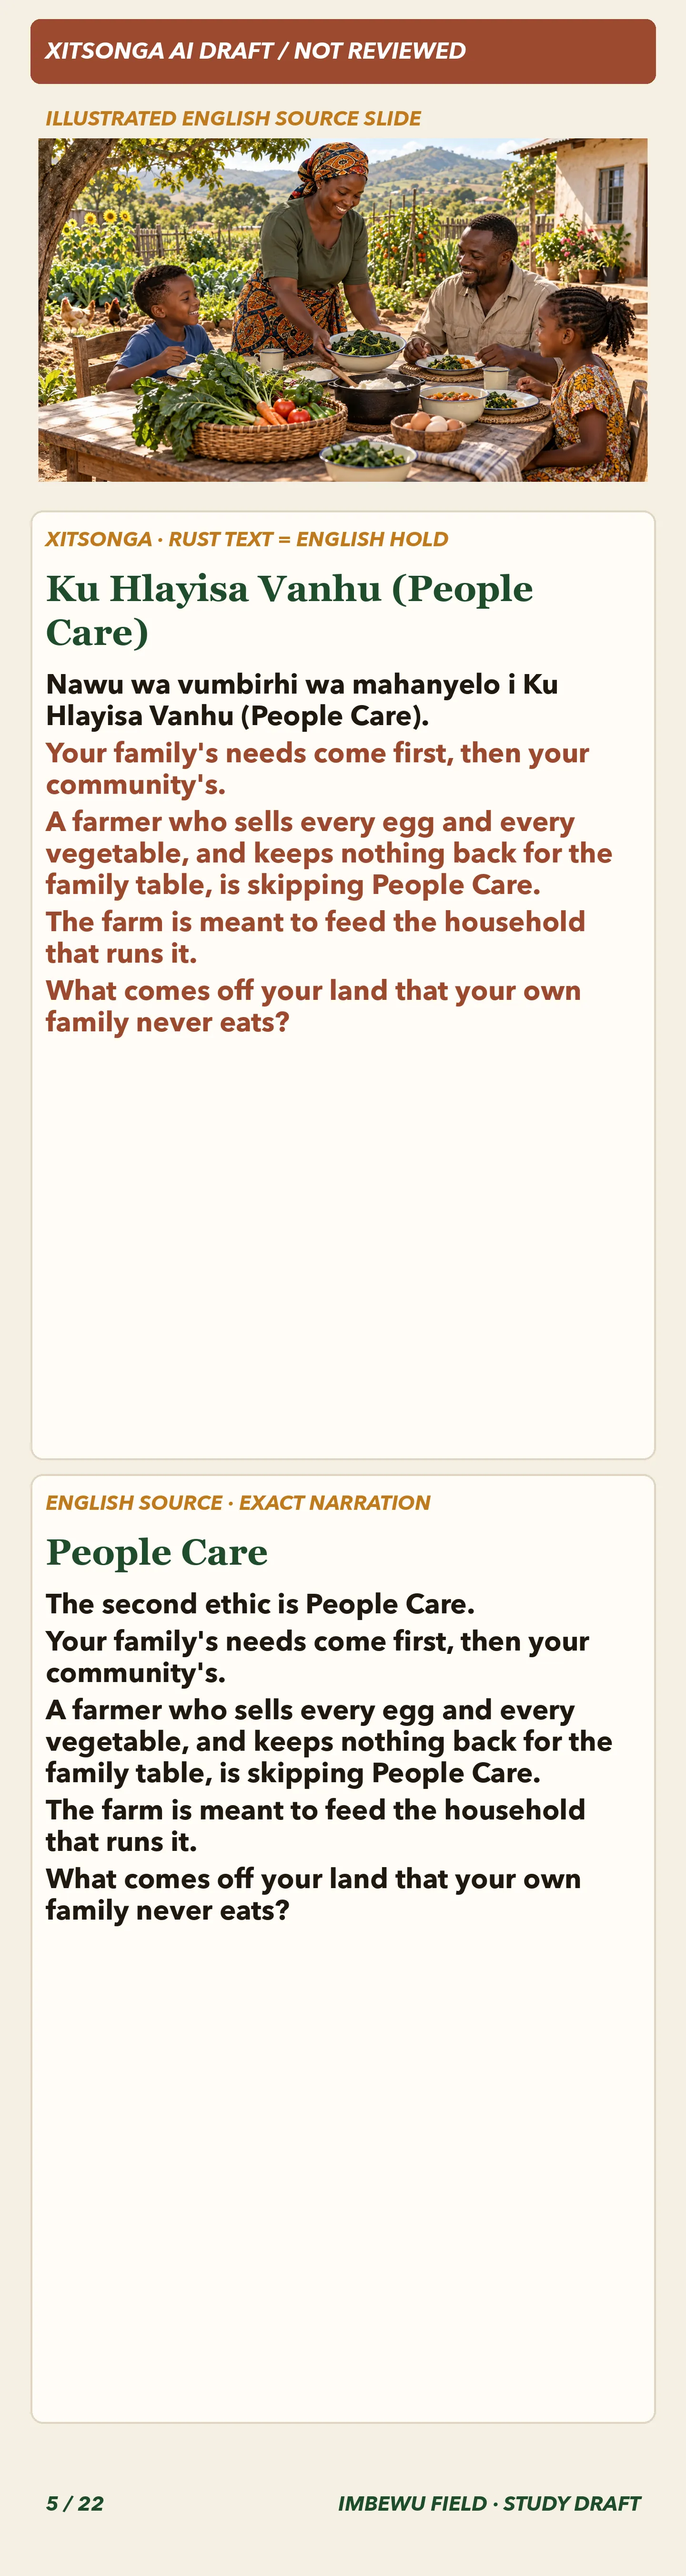
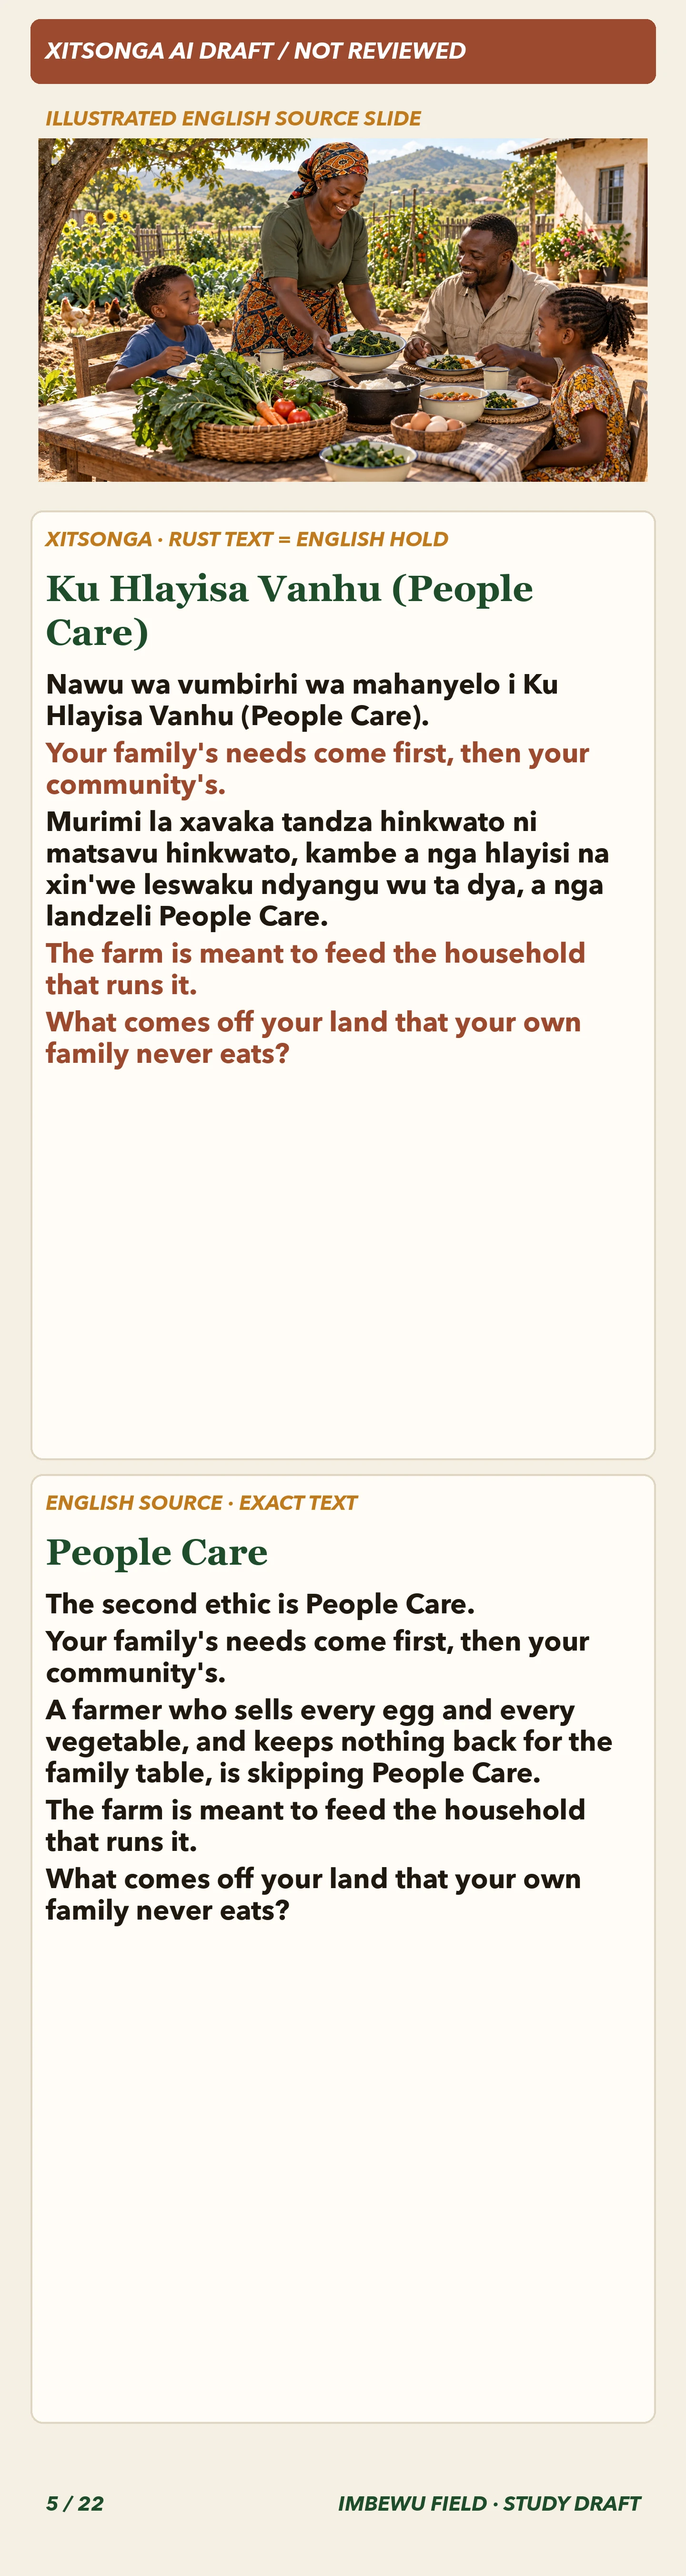
Pair People Care example in Tshivenda and Xitsonga slides

Changed region(s): [[0.0625, 0.3111, 0.875, 0.4356], [0.4688, 0.56, 0.625, 0.5911]]

diff --git a/tests/paired-draft-slides.test.ts b/tests/paired-draft-slides.test.ts
@@ -167,12 +167,11 @@ test('regional Introduction drafts stay source-paired while uncertain farming, s
     const drafted = slides.flatMap((slide: any) => slide.target.body
       .map((paragraph: any, index: number) => paragraph.status === 'draft' ? `${slide.n}:${index + 1}` : null)
       .filter(Boolean));
-    // These added reflections are safe to draft because they ask about time,
-    // bare-soil cover, or state the exercise's purpose; operational advice
-    // and the adjacent permaculture terms remain explicit English holds.
+    // This added sentence is an ordinary People Care example. The surplus,
+    // sharing, safety and permission examples remain exact English holds.
     assert.deepEqual(drafted, lang === 've'
-      ? ['1:1', '1:4', '2:2', '2:4', '3:1', '4:1', '4:4', '5:1', '6:1', '9:1', '9:2', '9:3', '14:1', '16:4', '17:1', '18:4', '20:4']
-      : ['1:1', '1:4', '2:2', '2:4', '3:1', '4:1', '4:4', '5:1', '6:1', '9:3', '16:3', '16:4', '17:1']);
+      ? ['1:1', '1:4', '2:2', '2:4', '3:1', '4:1', '4:4', '5:1', '5:3', '6:1', '9:1', '9:2', '9:3', '14:1', '16:4', '17:1', '18:4', '20:4']
+      : ['1:1', '1:4', '2:2', '2:4', '3:1', '4:1', '4:4', '5:1', '5:3', '6:1', '9:3', '16:3', '16:4', '17:1']);
     assert.deepEqual(slides.filter((slide: any) => slide.target.heading.status === 'draft')
       .map((slide: any) => slide.n), lang === 've'
       ? [2, 4, 5, 6, 8, 9, 11, 12, 13, 14, 18, 19, 20, 21, 22]
@@ -198,9 +197,15 @@ test('regional Introduction drafts stay source-paired while uncertain farming, s
       `slide 3 ${lang}: ethics, principles, zones and sectors must remain English`);
     for (const n of [4, 5, 6]) {
       assert.ok(slides[n - 1].target.body.slice(1).every((part: any, index: number) =>
-        part.status === 'english-hold' || (n === 4 && index === 2)),
-        `slide ${n} ${lang}: examples and care advice stay held; only the bare-soil reflection may be drafted`);
+        part.status === 'english-hold' || (n === 4 && index === 2) || (n === 5 && index === 1)),
+        `slide ${n} ${lang}: examples and care advice stay held apart from the ordinary reflections and People Care example`);
     }
+    assert.match(slides[4].target.body[2].text, /People Care/,
+      `slide 5 ${lang}: keep the named ethic visible in English`);
+    assert.notEqual(slides[4].target.body[2].text, slides[4].english.body[2],
+      `slide 5 ${lang}: a draft label cannot disguise unchanged English as a translation`);
+    for (const index of [1, 2]) assert.equal(slides[5].target.body[index].status, 'english-hold',
+      `slide 6 ${lang}: keep the uncertain surplus/mielies example paired in English`);
     for (const n of [7, 8]) {
       assert.ok(slides[n - 1].target.body.every((part: any) => part.status === 'english-hold'),
         `slide ${n} ${lang}: work, zones, water and permission claims must remain English`);

diff --git a/lib/course-asset-sizes.ts b/lib/course-asset-sizes.ts
@@ -758,7 +758,7 @@ export const COURSE_ASSET_SIZES: Readonly<Record<string, number>> = Object.freez
   '/course-decks/intro-permaculture/ts/slide-02.webp': 298716,
   '/course-decks/intro-permaculture/ts/slide-03.webp': 211694,
   '/course-decks/intro-permaculture/ts/slide-04.webp': 568930,
-  '/course-decks/intro-permaculture/ts/slide-05.webp': 373602,
+  '/course-decks/intro-permaculture/ts/slide-05.webp': 524236,
   '/course-decks/intro-permaculture/ts/slide-06.webp': 422726,
   '/course-decks/intro-permaculture/ts/slide-07.webp': 282362,
   '/course-decks/intro-permaculture/ts/slide-08.webp': 220948,
@@ -780,7 +780,7 @@ export const COURSE_ASSET_SIZES: Readonly<Record<string, number>> = Object.freez
   '/course-decks/intro-permaculture/ve/slide-02.webp': 302336,
   '/course-decks/intro-permaculture/ve/slide-03.webp': 243938,
   '/course-decks/intro-permaculture/ve/slide-04.webp': 573948,
-  '/course-decks/intro-permaculture/ve/slide-05.webp': 433796,
+  '/course-decks/intro-permaculture/ve/slide-05.webp': 519606,
   '/course-decks/intro-permaculture/ve/slide-06.webp': 487870,
   '/course-decks/intro-permaculture/ve/slide-07.webp': 378226,
   '/course-decks/intro-permaculture/ve/slide-08.webp': 260388,

diff --git a/lib/release-notes.ts b/lib/release-notes.ts
@@ -42,6 +42,13 @@ export interface UpdateTourStop {
 
 /** Shown newest-first under the Refresh button. The banner renders at most MAX_SHOWN lines total. */
 export const RELEASE_NOTES: ReleaseNote[] = [
+  { when: '29 September 2026', sha: 'b683cdcb', changes: [
+    'Introduction slide 5 adds People Care drafts in Tshivenda and Xitsonga.',
+    'English stays beside each silent, unreviewed slide.',
+  ], tour: [
+    { title: 'Compare the People Care example', where: 'Study → Introduction to Permaculture → slide 5', href: '/student',
+      detail: 'Choose Tshivenda or Xitsonga. Read the marked example against its exact English source; the Fair Share examples remain in English.' },
+  ] },
   { when: '29 September 2026', sha: 'ccf8cec0', changes: [
     'Small Livestock shows unreviewed Xitsonga module and bee-lesson labels.',
     'Animal-care and pollination guidance stays in English.',

diff --git a/docs/narration-reviews/intro-people-care-slide5-ve-ts-2026-09-29.md b/docs/narration-reviews/intro-people-care-slide5-ve-ts-2026-09-29.md
@@ -1,0 +1,12 @@
+# Introduction slide 5 — People Care example
+
+**Status:** unreviewed AI draft for facilitator review. The exact English source stays visible on each static slide. No Tshivenda or Xitsonga narration is added. Sesotho slide 5 and its paired script stay unchanged because existing Sesotho audio is bound to that source.
+
+| Exact English source | Language | Draft shown beside English |
+| --- | --- | --- |
+| A farmer who sells every egg and every vegetable, and keeps nothing back for the family table, is skipping People Care. | Tshivenda | Murimi ane a rengisa makumba oṱhe na miroho yoṱhe, a si vhee na tshithu tsha uḽa ha muṱa, ha tevheli People Care. |
+| Same exact source | Xitsonga | Murimi la xavaka tandza hinkwato ni matsavu hinkwato, kambe a nga hlayisi na xin'we leswaku ndyangu wu ta dya, a nga landzeli People Care. |
+
+The existing English source is unchanged in both paired records. `People Care` stays in English. An independent model check found the all-eggs/all-vegetables and nothing-kept-back conditions present in the Xitsonga candidate; the Tshivenda candidate was revised to make nothing kept back explicit. This is a semantic check, not a fluent-language or local-farming approval. A facilitator should check the idiom, register and intended meaning with speakers before treating the draft as final.
+
+Slide 6's surplus/mielies examples and the shared-spring example remain exact English holds. Slide 8's ethics-purpose sentence also stays as it was, after alternative wording risked implying a rule of conduct rather than the named ethics. No farming method, crop quantity, safety instruction, quiz, or audio changes in this batch.
